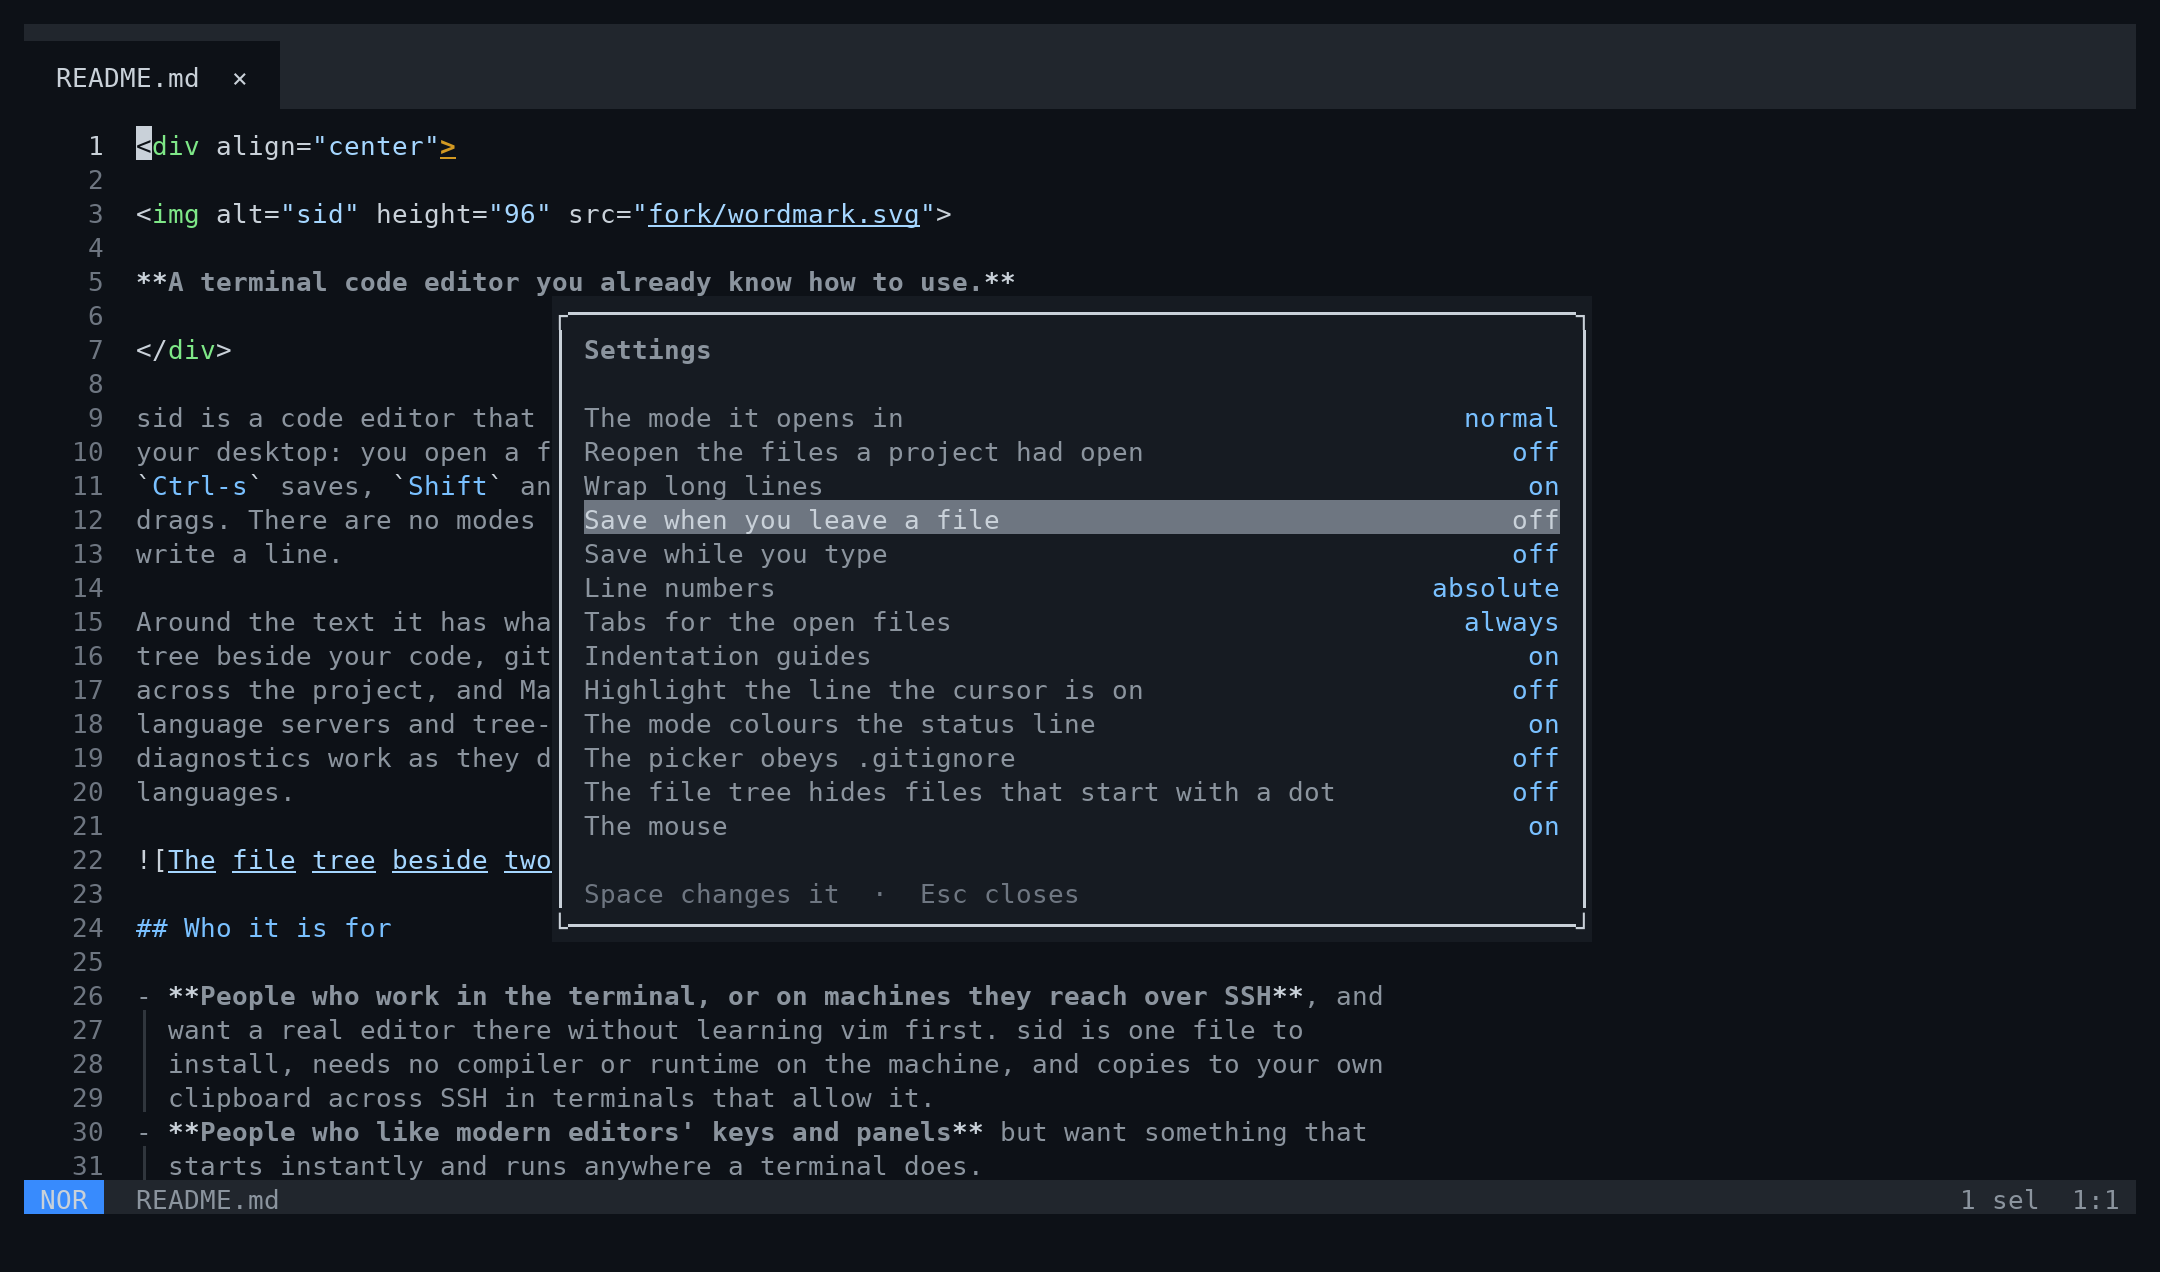
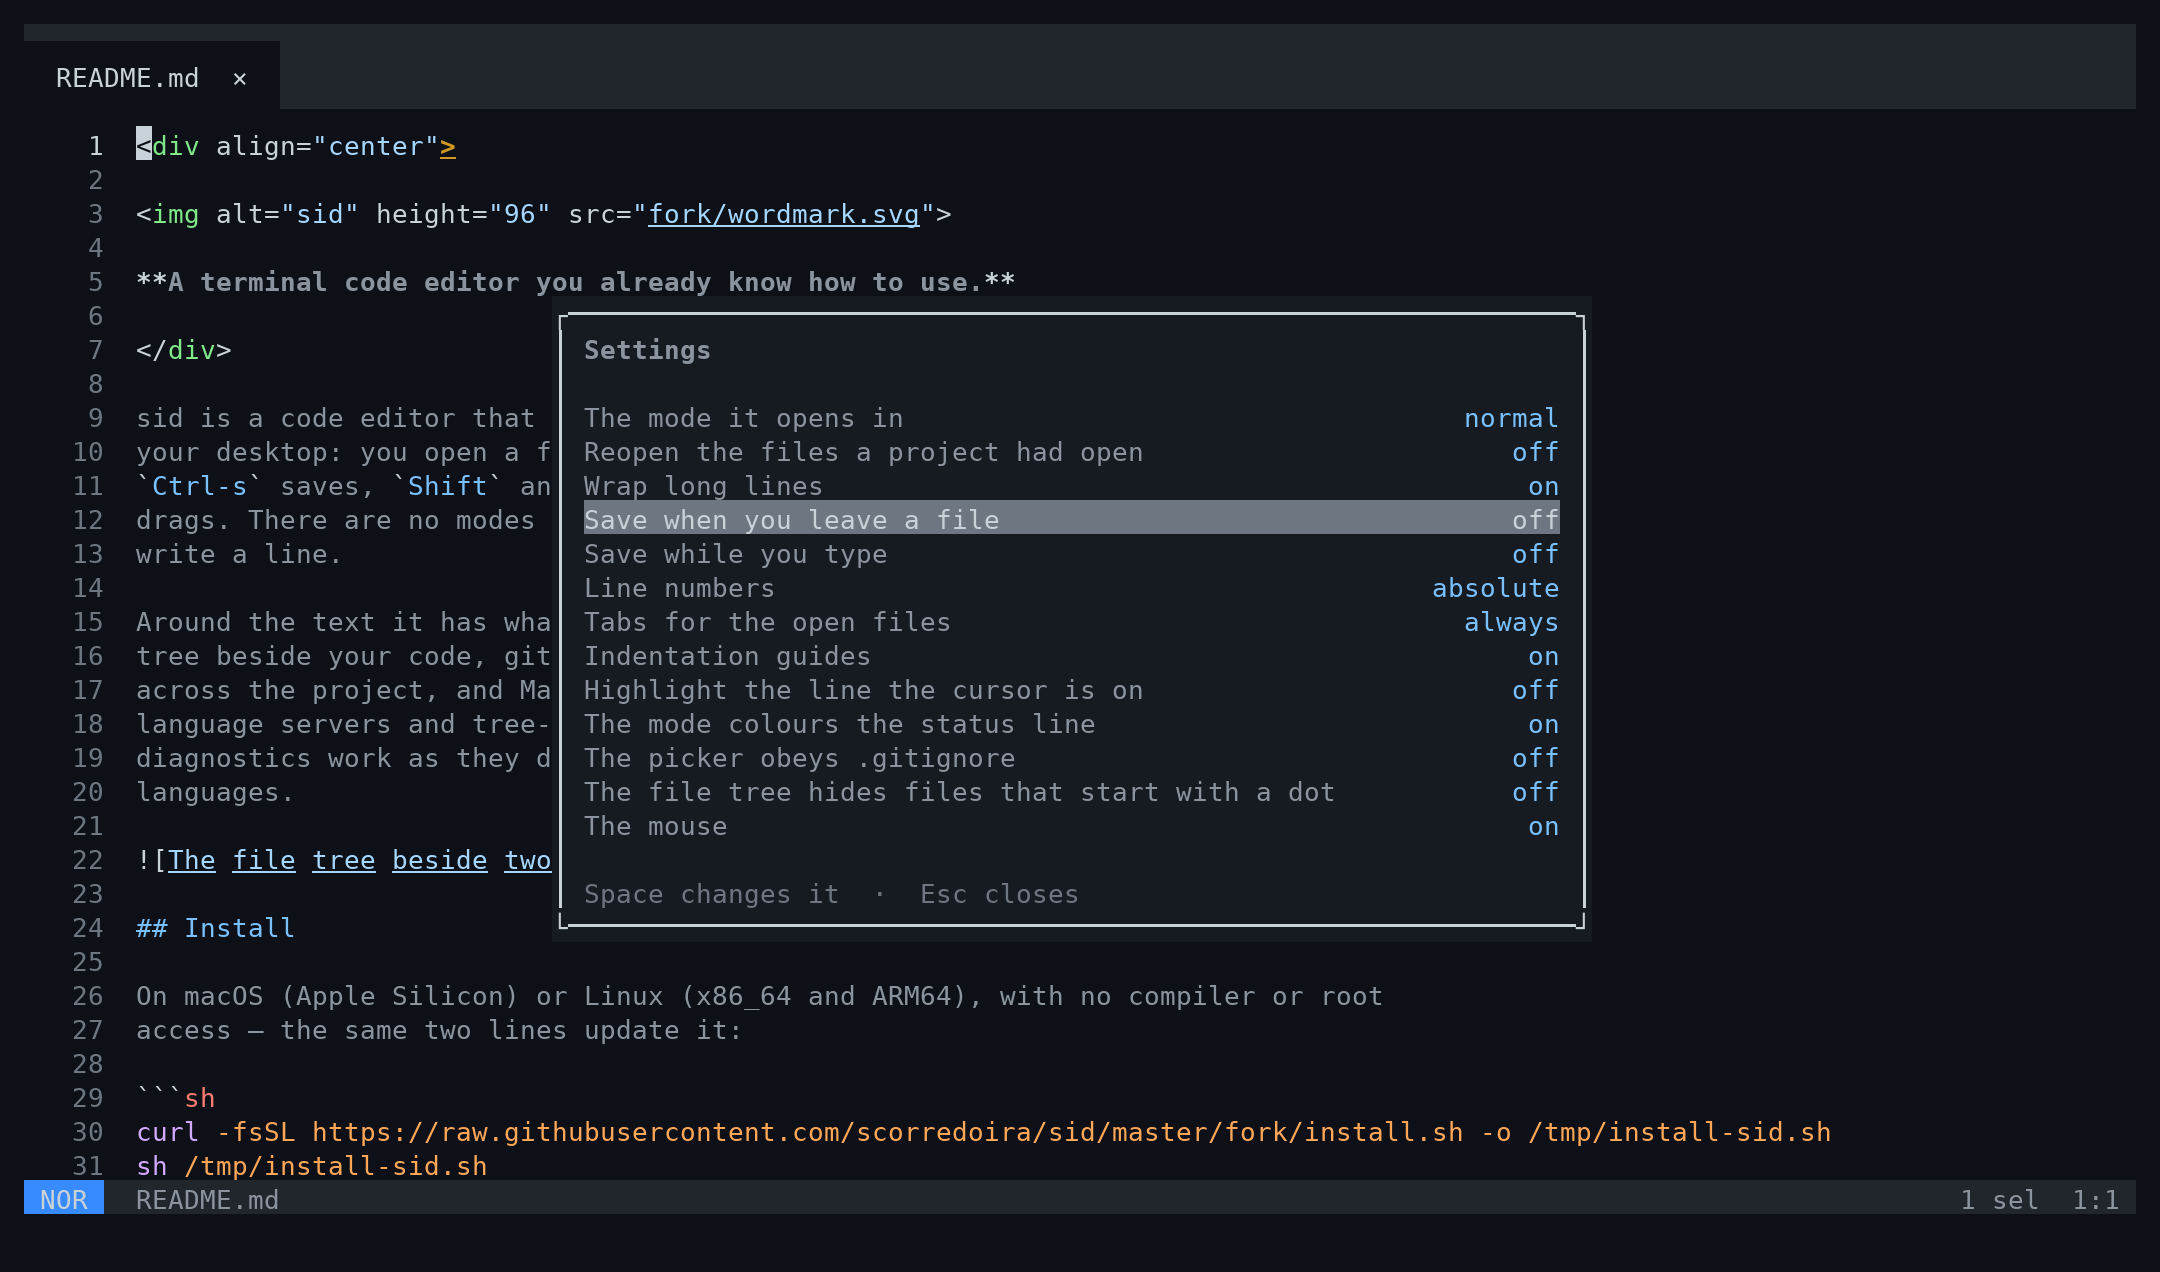
docs: search, definitions and symbols before git in the README
A section for go to definition, references, rename and symbols, with a
screenshot of the symbol list, sits after search and replace and before the
git sections. Updating is documented beside installing.

Changed region(s): [[0.062, 0.7665, 0.6514, 0.9198], [0.0931, 0.7052, 0.1551, 0.7358]]

diff --git a/README.md b/README.md
@@ -32,7 +32,9 @@ sh /tmp/install-sid.sh
 ```
 
 It installs under `~/.local`: make sure `~/.local/bin` is on your PATH, then run
-`sid` in a project. The binaries are in the
+`sid` in a project. Later, `sid --update` installs the latest release when there
+is a newer one, and so does **Check for updates** on the welcome screen
+(`:check-updates`), after asking. The binaries are in the
 [latest release](https://github.com/scorredoira/sid/releases/latest); a single
 portable file for servers, other prefixes and building from source are under
 [Installing](#installing).
@@ -88,6 +90,37 @@ what happens there: a file a tool or git creates appears on its own within a
 couple of seconds, with your folds and your place kept. `F5` reads everything
 on screen again at once.
 
+## Search and replace across the project
+
+`Ctrl-Shift-f` opens a panel with a replace box and
+include/exclude filters (the filters are remembered), switches for case, whole
+word, regex and preserving case — the panel's border says their keys — and
+each result shows the line it matched. `Alt-a` replaces every match on
+screen: the files are changed but left unsaved, and one undo takes it back.
+
+![The search panel with replace and filters](fork/screenshots/search.png)
+
+## Search and replace in this file
+
+`Ctrl-f` opens the same panel on the file you are editing, its name on the
+border: the matches listed by line, the file beside them, the same switches.
+`Alt-a` replaces every match in it, unsaved, and one undo takes it back.
+`Ctrl-g` asks for a line number and goes there, following it as you type.
+
+![The search panel on one file, its matches by line](fork/screenshots/search-file.png)
+
+## Go to definition, references and symbols
+
+`F12` goes to the definition of what is under the cursor and `Shift-F12` lists
+its references; `F2` renames it everywhere, and `F8` walks to the next problem
+the language server found. `Ctrl-Shift-o` lists the symbols of the file and
+`Ctrl-t` those of the whole project, filtered as you type — from the language
+server when there is one, and from the syntax tree when there is not, so they
+work on any file sid can highlight. `Ctrl-Alt-←` and `Ctrl-Alt-→` take you back
+and forth through where you have been.
+
+![The symbols of a file, filtered by what was typed](fork/screenshots/symbols.png)
+
 ## What git sees changed
 
 The **Changes** tab (`Tab` inside the sidebar) lists what `git status` names,
@@ -129,25 +162,6 @@ or use `F6` / `F7` to show or hide commits / code.
 which commit; press it again to open that commit in the sidebar.
 
 ![Who changed the line under the cursor, in the status line](fork/screenshots/blame.png)
-
-## Search and replace across the project
-
-`Ctrl-Shift-f` opens a panel with a replace box and
-include/exclude filters (the filters are remembered), switches for case, whole
-word, regex and preserving case — the panel's border says their keys — and
-each result shows the line it matched. `Alt-a` replaces every match on
-screen: the files are changed but left unsaved, and one undo takes it back.
-
-![The search panel with replace and filters](fork/screenshots/search.png)
-
-## Search and replace in this file
-
-`Ctrl-f` opens the same panel on the file you are editing, its name on the
-border: the matches listed by line, the file beside them, the same switches.
-`Alt-a` replaces every match in it, unsaved, and one undo takes it back.
-`Ctrl-g` asks for a line number and goes there, following it as you type.
-
-![The search panel on one file, its matches by line](fork/screenshots/search-file.png)
 
 ## Markdown, as it reads
 
@@ -370,6 +384,11 @@ same commands again to update:
 curl -fsSL https://raw.githubusercontent.com/scorredoira/sid/master/fork/install.sh -o /tmp/install-sid.sh
 sh /tmp/install-sid.sh
 ```
+
+To update, run `sid --update`, or **Check for updates** on the welcome screen: either
+installs the latest release beside the one running, and the next start is the new one.
+A build from source updates with `git pull` and `./build.sh` instead, and the portable
+`.run` file by downloading the new one.
 
 `SID_VERSION=vYYYY.M.N` (a release tag) installs that release instead of the latest, and
 `SID_PREFIX` an absolute prefix other than `~/.local`.
